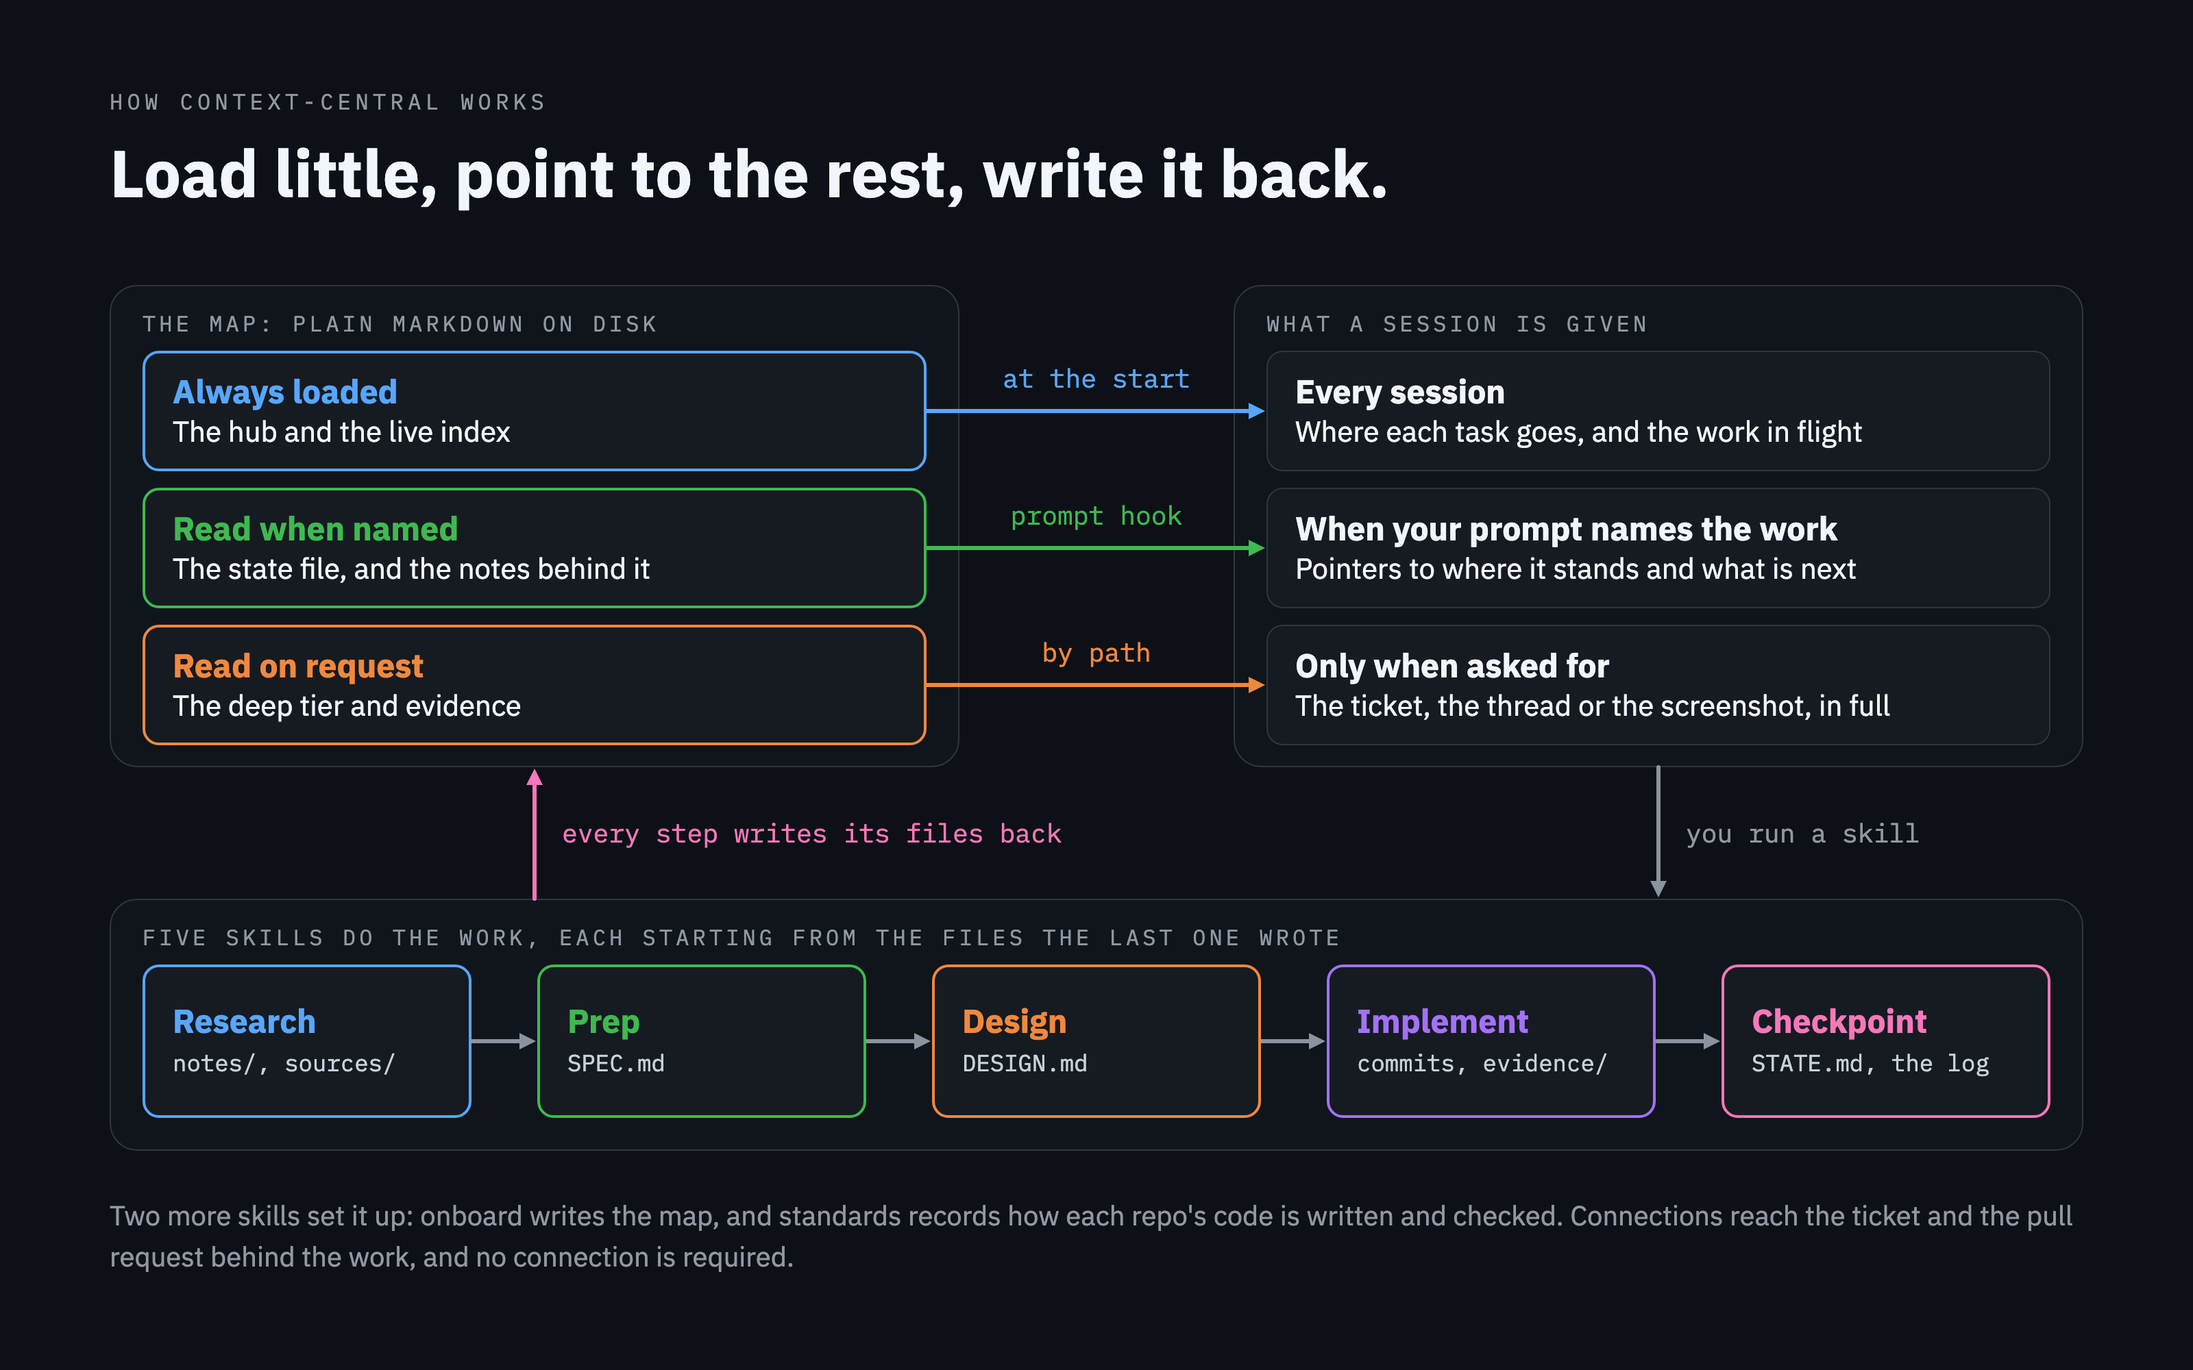
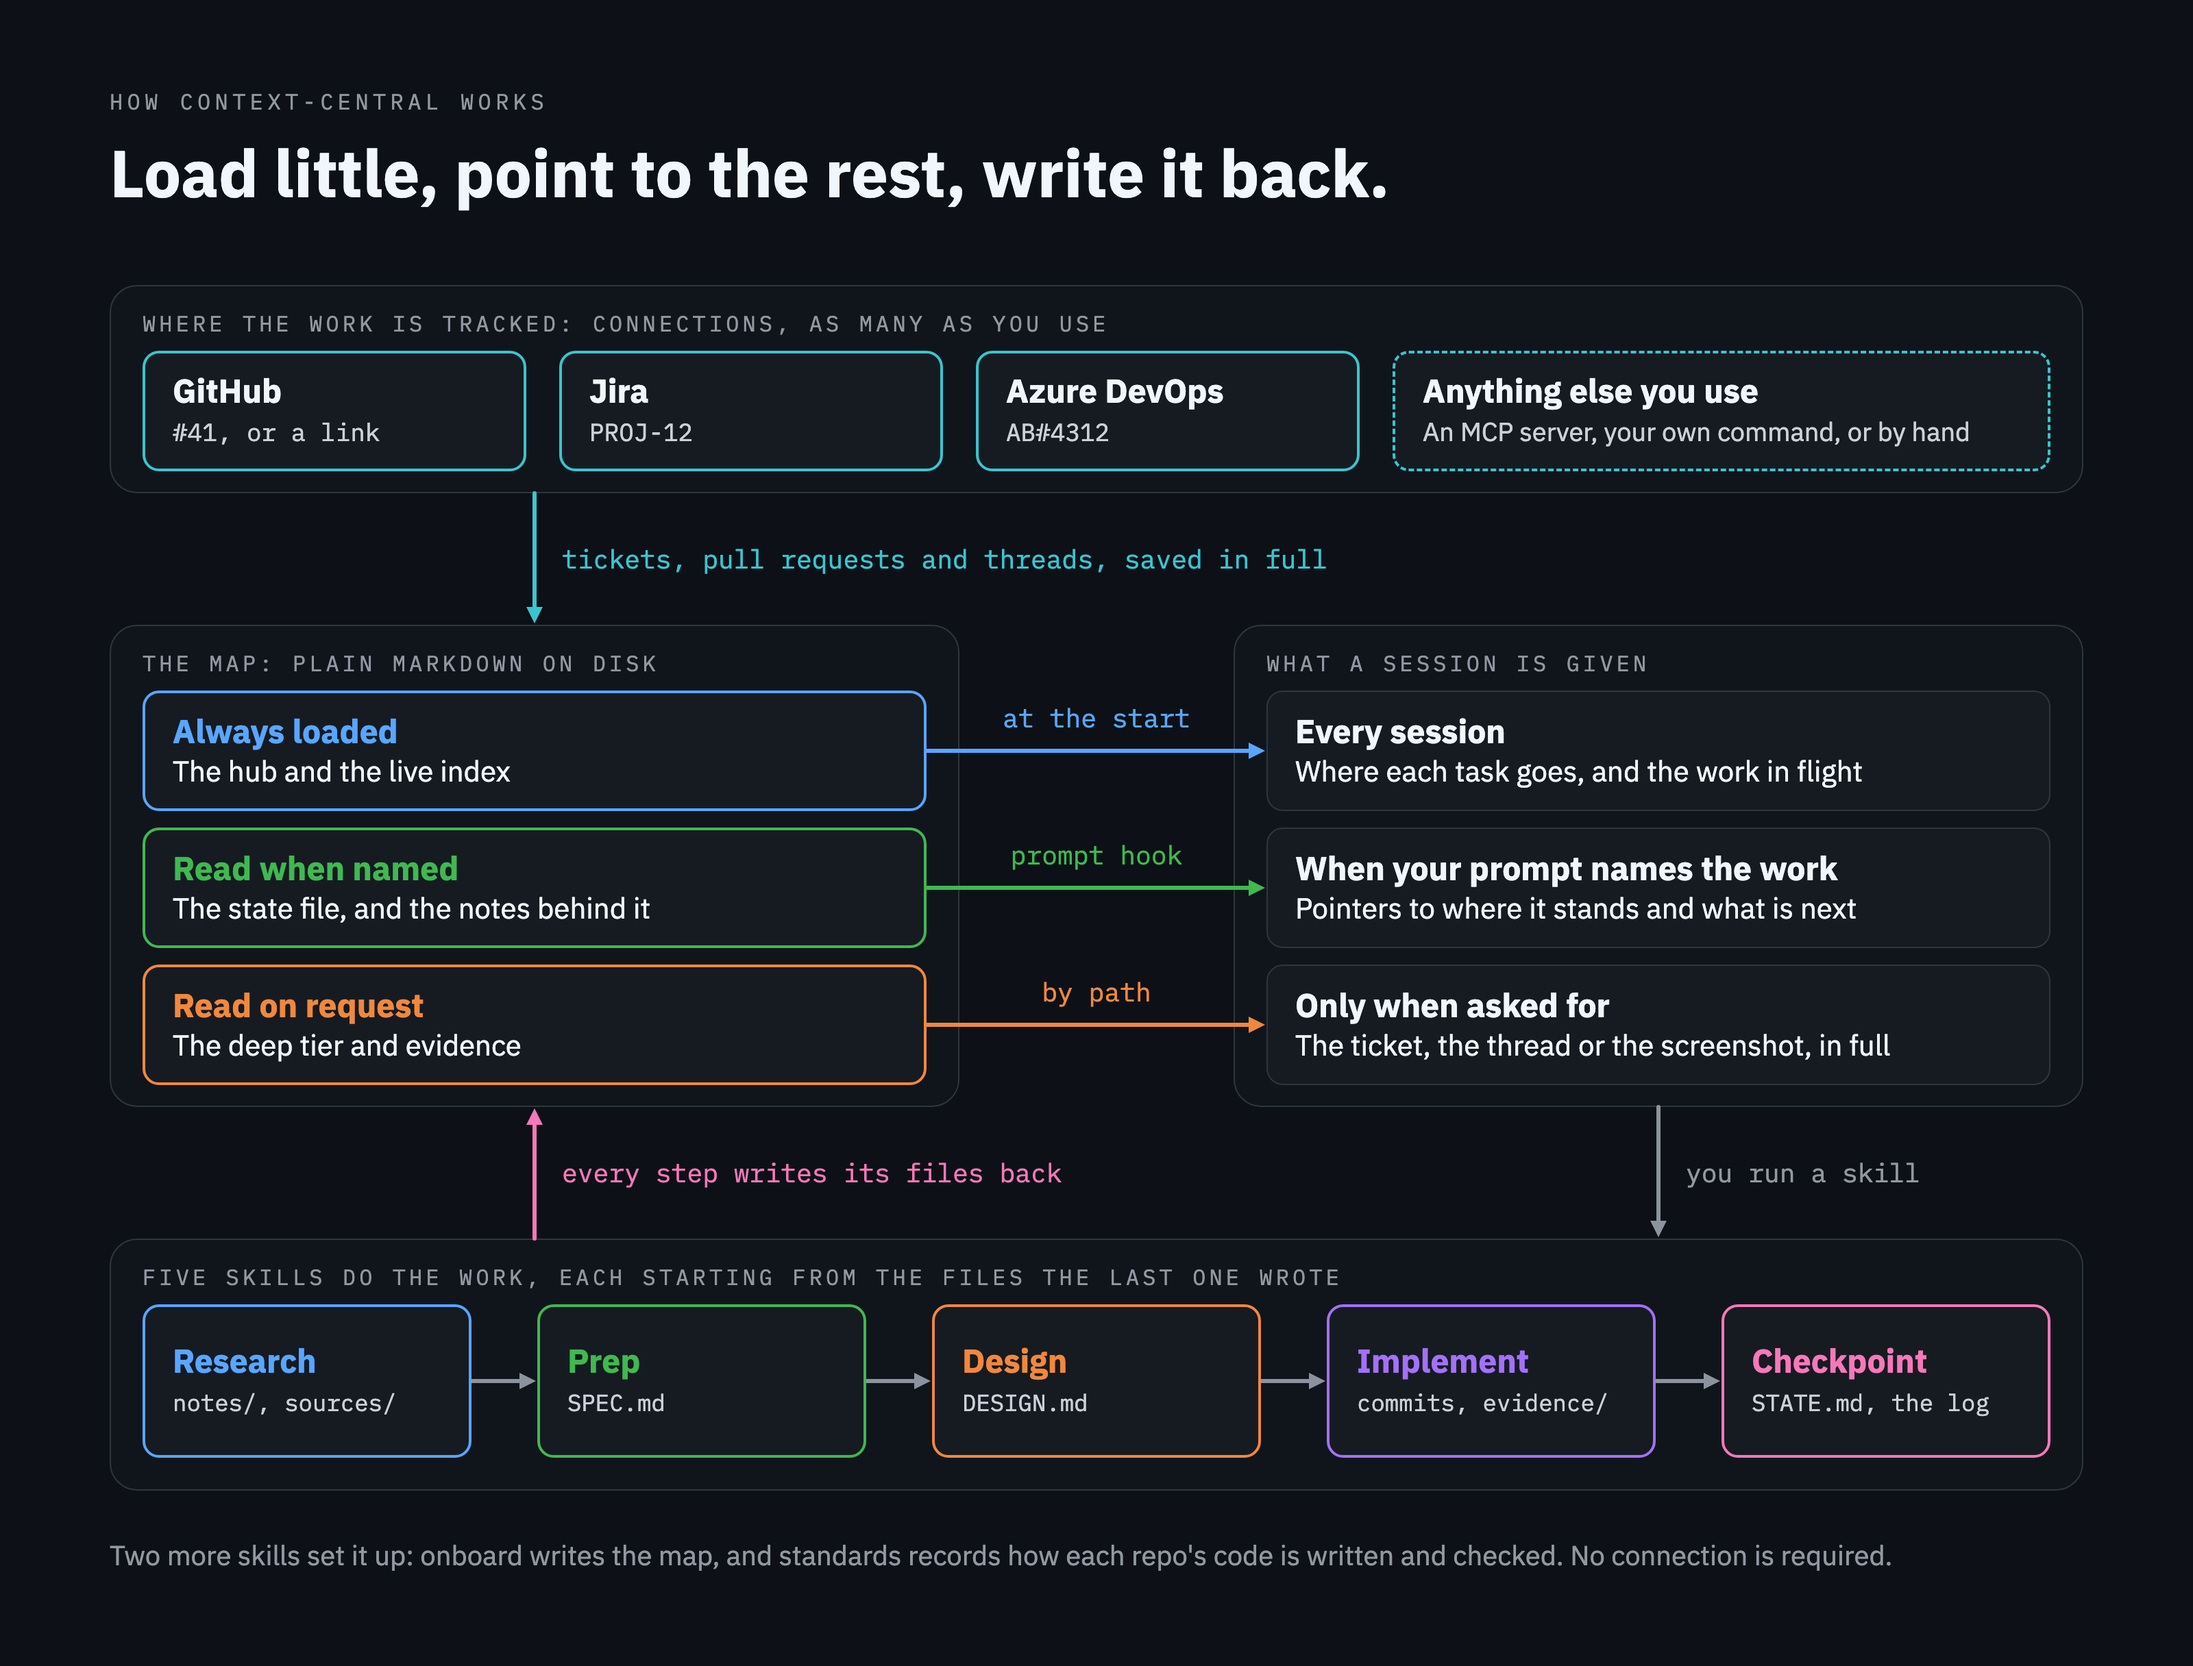
docs: show the connections at the start of the opening image, feeding the map

Changed region(s): [[0.0625, 0.186, 0.9375, 0.961], [0.0312, 0.062, 0.625, 0.155]]

diff --git a/README.md b/README.md
@@ -2,7 +2,7 @@
 
 A Claude Code plugin that gives all the context behind your work one central place: a map of plain Markdown notes about your repositories and the work in flight.
 
-![How context-central works: the map holds three tiers, and a session is given the hub and the live index at the start, the state file and the notes when your prompt names the work, and the deep tier and evidence only when asked. Five skills do the work, each starting from the files the last one wrote, and every step writes its files back to the map](docs/how-it-works.png)
+![How context-central works: connections such as GitHub, Jira, Azure DevOps or anything else you use bring tickets, pull requests and threads into the map, saved in full. The map holds three tiers, and a session is given the hub and the live index at the start, the state file and the notes when your prompt names the work, and the deep tier and evidence only when asked. Five skills do the work, each starting from the files the last one wrote, and every step writes its files back to the map](docs/how-it-works.png)
 
 ## What it does
 

diff --git a/CHANGELOG.md b/CHANGELOG.md
@@ -4,7 +4,7 @@ Each release of context-central, newest first. The version is the one in `.claud
 
 ## 0.8.2 - 2026-10-10
 
-- **The opening image of the README is redrawn** as one diagram of the whole loop: the three tiers of the map, what a session is given from each and when, the five skills that do the work, and every step writing its files back to the map. It names the seven skills, where the mind map before it named five.
+- **The opening image of the README is redrawn** as one diagram of the whole loop: the connections that bring tickets, pull requests and threads into the map, the three tiers of the map, what a session is given from each and when, the five skills that do the work, and every step writing its files back to the map. It names the seven skills, where the mind map before it named five.
 - Nothing changes in what the commands, the hooks, the skills or the agents do.
 
 ## 0.8.1 - 2026-10-09
